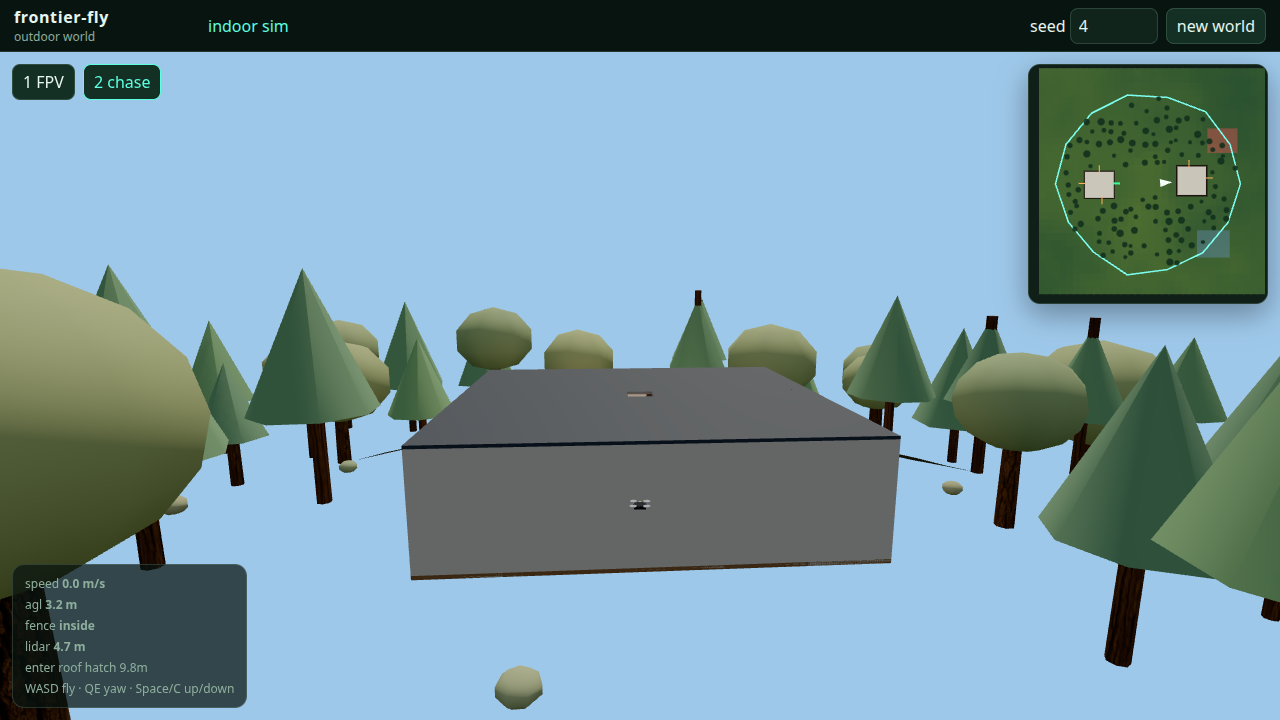
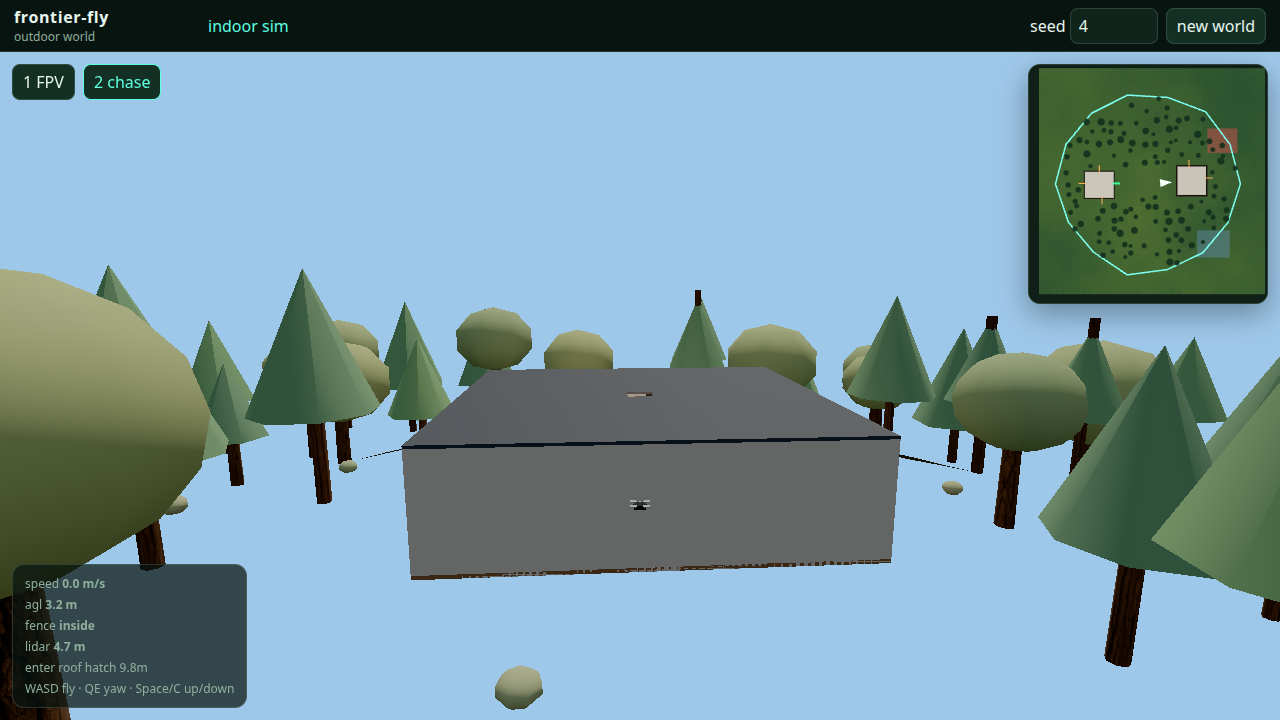
Keep the outdoor page realtime under software WebGL.
Publish frame rate after the shader warmup, draw the map background once, and skip shadow maps on SwiftShader so the e2e check clears 8 fps on CI.

diff --git a/src/world/outdoor/viz/scene.ts b/src/world/outdoor/viz/scene.ts
@@ -24,21 +24,27 @@ export class OutdoorView {
   private readonly buckets: InstancedBucket[] = [];
   private buildingRoot: THREE.Group | null = null;
   private terrainMesh: THREE.Mesh | null = null;
+  private forestX = Number.NaN;
+  private forestY = Number.NaN;
 
   constructor(canvas: HTMLCanvasElement) {
-    this.renderer = new THREE.WebGLRenderer({ canvas, antialias: true, preserveDrawingBuffer: true });
-    this.renderer.setPixelRatio(Math.min(window.devicePixelRatio || 1, 1.5));
+    const soft = softwareWebgl();
+    this.renderer = new THREE.WebGLRenderer({ canvas, antialias: !soft, preserveDrawingBuffer: true });
+    this.renderer.setPixelRatio(soft ? 1 : Math.min(window.devicePixelRatio || 1, 1.5));
     this.renderer.outputColorSpace = THREE.SRGBColorSpace;
     this.renderer.toneMapping = THREE.AgXToneMapping;
     this.renderer.toneMappingExposure = 1.05;
-    this.renderer.shadowMap.enabled = true;
-    this.renderer.shadowMap.type = THREE.PCFSoftShadowMap;
+    this.renderer.shadowMap.enabled = !soft;
+    this.renderer.shadowMap.type = THREE.PCFShadowMap;
+    // Trees and shells do not move, so the shadow map is rendered once per world.
+    this.renderer.shadowMap.autoUpdate = false;
+    this.renderer.shadowMap.needsUpdate = !soft;
     this.scene.background = new THREE.Color('#9ec8ea');
     this.scene.fog = new THREE.Fog('#b7d4ee', 28, 92);
     this.sun = new THREE.DirectionalLight('#fff4dd', 2.6);
     this.sun.position.set(48, 62, 18);
-    this.sun.castShadow = true;
-    this.sun.shadow.mapSize.set(1024, 1024);
+    this.sun.castShadow = !soft;
+    this.sun.shadow.mapSize.set(512, 512);
     this.sun.shadow.camera.near = 10;
     this.sun.shadow.camera.far = 140;
     this.sun.shadow.camera.left = -40;
@@ -72,6 +78,9 @@ export class OutdoorView {
     this.sun.position.set(mid + 28, 64, mid + 10);
     this.sun.shadow.camera.position.copy(this.sun.position);
     this.sun.shadow.camera.lookAt(mid, 4, mid);
+    this.renderer.shadowMap.needsUpdate = true;
+    this.forestX = Number.NaN;
+    this.forestY = Number.NaN;
     this.placeForest(world, world.spawn[0], world.spawn[1]);
   }
 
@@ -138,6 +147,9 @@ export class OutdoorView {
   }
 
   private placeForest(world: OutdoorWorld, camX: number, camY: number): void {
+    if (Math.hypot(camX - this.forestX, camY - this.forestY) < 0.05) return;
+    this.forestX = camX;
+    this.forestY = camY;
     for (const bucket of this.buckets) bucket.fill(world, camX, camY);
   }
 
@@ -192,7 +204,6 @@ export class OutdoorView {
     const mat = new THREE.MeshStandardMaterial({ map: texture, vertexColors: true, roughness: 0.92, metalness: 0 });
     const mesh = new THREE.Mesh(geo, mat);
     mesh.receiveShadow = true;
-    mesh.castShadow = true;
     return mesh;
   }
 
@@ -397,6 +408,16 @@ function bucket(
       if (mesh.instanceColor) mesh.instanceColor.needsUpdate = true;
     },
   };
+}
+
+function softwareWebgl(): boolean {
+  const probe = document.createElement('canvas');
+  const gl = probe.getContext('webgl2');
+  if (!gl) return true;
+  const debug = gl.getExtension('WEBGL_debug_renderer_info');
+  const name = debug ? String(gl.getParameter(debug.UNMASKED_RENDERER_WEBGL)) : '';
+  gl.getExtension('WEBGL_lose_context')?.loseContext();
+  return /swiftshader|llvmpipe|softpipe|software/i.test(name);
 }
 
 function cylinder(radius: number, height: number, segments: number): THREE.CylinderGeometry {

diff --git a/src/world/outdoor/viz/map.ts b/src/world/outdoor/viz/map.ts
@@ -6,6 +6,8 @@ export interface MapDrone {
   yaw: number;
 }
 
+const mapCache = new WeakMap<OutdoorWorld, { width: number; height: number; layer: HTMLCanvasElement }>();
+
 /** Top-down overlay: terrain, geofence, no-fly zones, trees, shells, openings, drone. */
 export function drawOutdoorMap(
   ctx: CanvasRenderingContext2D,
@@ -21,16 +23,45 @@ export function drawOutdoorMap(
     ctx.canvas.width = width;
     ctx.canvas.height = height;
   }
+  const cached = mapCache.get(world);
+  const layer = cached && cached.width === width && cached.height === height ? cached.layer : paintMapLayer(world, width, height, cssWidth, cssHeight, dpr);
+  if (!cached || cached.layer !== layer) mapCache.set(world, { width, height, layer });
+  ctx.setTransform(1, 0, 0, 1, 0, 0);
+  ctx.clearRect(0, 0, width, height);
+  ctx.drawImage(layer, 0, 0);
   ctx.setTransform(dpr, 0, 0, dpr, 0, 0);
-  ctx.clearRect(0, 0, cssWidth, cssHeight);
+
+  const { toX, toY } = mapProject(world, cssWidth, cssHeight);
+  ctx.save();
+  ctx.translate(toX(drone.x), toY(drone.y));
+  ctx.rotate(-drone.yaw);
+  ctx.fillStyle = '#f4fff8';
+  ctx.beginPath();
+  ctx.moveTo(7, 0);
+  ctx.lineTo(-5, 4);
+  ctx.lineTo(-5, -4);
+  ctx.closePath();
+  ctx.fill();
+  ctx.restore();
+}
+
+function paintMapLayer(
+  world: OutdoorWorld,
+  width: number,
+  height: number,
+  cssWidth: number,
+  cssHeight: number,
+  dpr: number,
+): HTMLCanvasElement {
+  const layer = document.createElement('canvas');
+  layer.width = width;
+  layer.height = height;
+  const ctx = layer.getContext('2d');
+  if (!ctx) return layer;
+  ctx.setTransform(dpr, 0, 0, dpr, 0, 0);
   ctx.fillStyle = '#102018';
   ctx.fillRect(0, 0, cssWidth, cssHeight);
-
-  const pad = 10;
-  const scale = (cssWidth - pad * 2) / world.size;
-  const toX = (x: number) => pad + x * scale;
-  const toY = (y: number) => cssHeight - pad - y * scale;
-
+  const { toX, toY, scale } = mapProject(world, cssWidth, cssHeight);
   const n = world.terrain.resolution;
   const step = 2;
   const cell = world.size / (n - 1);
@@ -101,16 +132,19 @@ export function drawOutdoorMap(
       ctx.stroke();
     }
   }
+  return layer;
+}
 
-  ctx.save();
-  ctx.translate(toX(drone.x), toY(drone.y));
-  ctx.rotate(-drone.yaw);
-  ctx.fillStyle = '#f4fff8';
-  ctx.beginPath();
-  ctx.moveTo(7, 0);
-  ctx.lineTo(-5, 4);
-  ctx.lineTo(-5, -4);
-  ctx.closePath();
-  ctx.fill();
-  ctx.restore();
+function mapProject(world: OutdoorWorld, cssWidth: number, cssHeight: number): {
+  scale: number;
+  toX: (x: number) => number;
+  toY: (y: number) => number;
+} {
+  const pad = 10;
+  const scale = (cssWidth - pad * 2) / world.size;
+  return {
+    scale,
+    toX: (x) => pad + x * scale,
+    toY: (y) => cssHeight - pad - y * scale,
+  };
 }

diff --git a/src/world/outdoor/viz/page.ts b/src/world/outdoor/viz/page.ts
@@ -69,6 +69,7 @@ class Session {
   private camera: OutdoorCamera;
   private last = performance.now();
   private frames = 0;
+  private fpsSamples = 0;
   private fpsStamp = performance.now();
 
   constructor(
@@ -139,9 +140,14 @@ class Session {
     this.frames += 1;
     if (now - this.fpsStamp > 500) {
       const fps = (this.frames * 1000) / (now - this.fpsStamp);
-      this.root.dataset.fps = fps.toFixed(1);
       this.frames = 0;
       this.fpsStamp = now;
+      this.fpsSamples += 1;
+      // The first window includes shader compile and the one-shot shadow pass.
+      if (this.fpsSamples >= 2) {
+        this.root.dataset.fps = fps.toFixed(1);
+        this.root.dataset.fpsSamples = String(this.fpsSamples);
+      }
     }
     requestAnimationFrame(this.loop);
   };

diff --git a/tests/e2e/outdoor.spec.ts b/tests/e2e/outdoor.spec.ts
@@ -24,7 +24,11 @@ test('outdoor chase, fpv, and map are non-blank', async ({ page }) => {
 
   await page.goto('/outdoor.html?seed=4&shot=map');
   await expect(page.locator('#app[data-ready="1"]')).toBeVisible({ timeout: 40_000 });
-  await page.waitForTimeout(400);
+  await page.waitForFunction(
+    () => Number(document.querySelector('#app')?.getAttribute('data-fps-samples') ?? '0') >= 2,
+    undefined,
+    { timeout: 20_000 },
+  );
   await page.screenshot({ path: `${out}/outdoor-map.png` });
   expect(readFileSync(`${out}/outdoor-map.png`).length).toBeGreaterThan(20_000);
 
